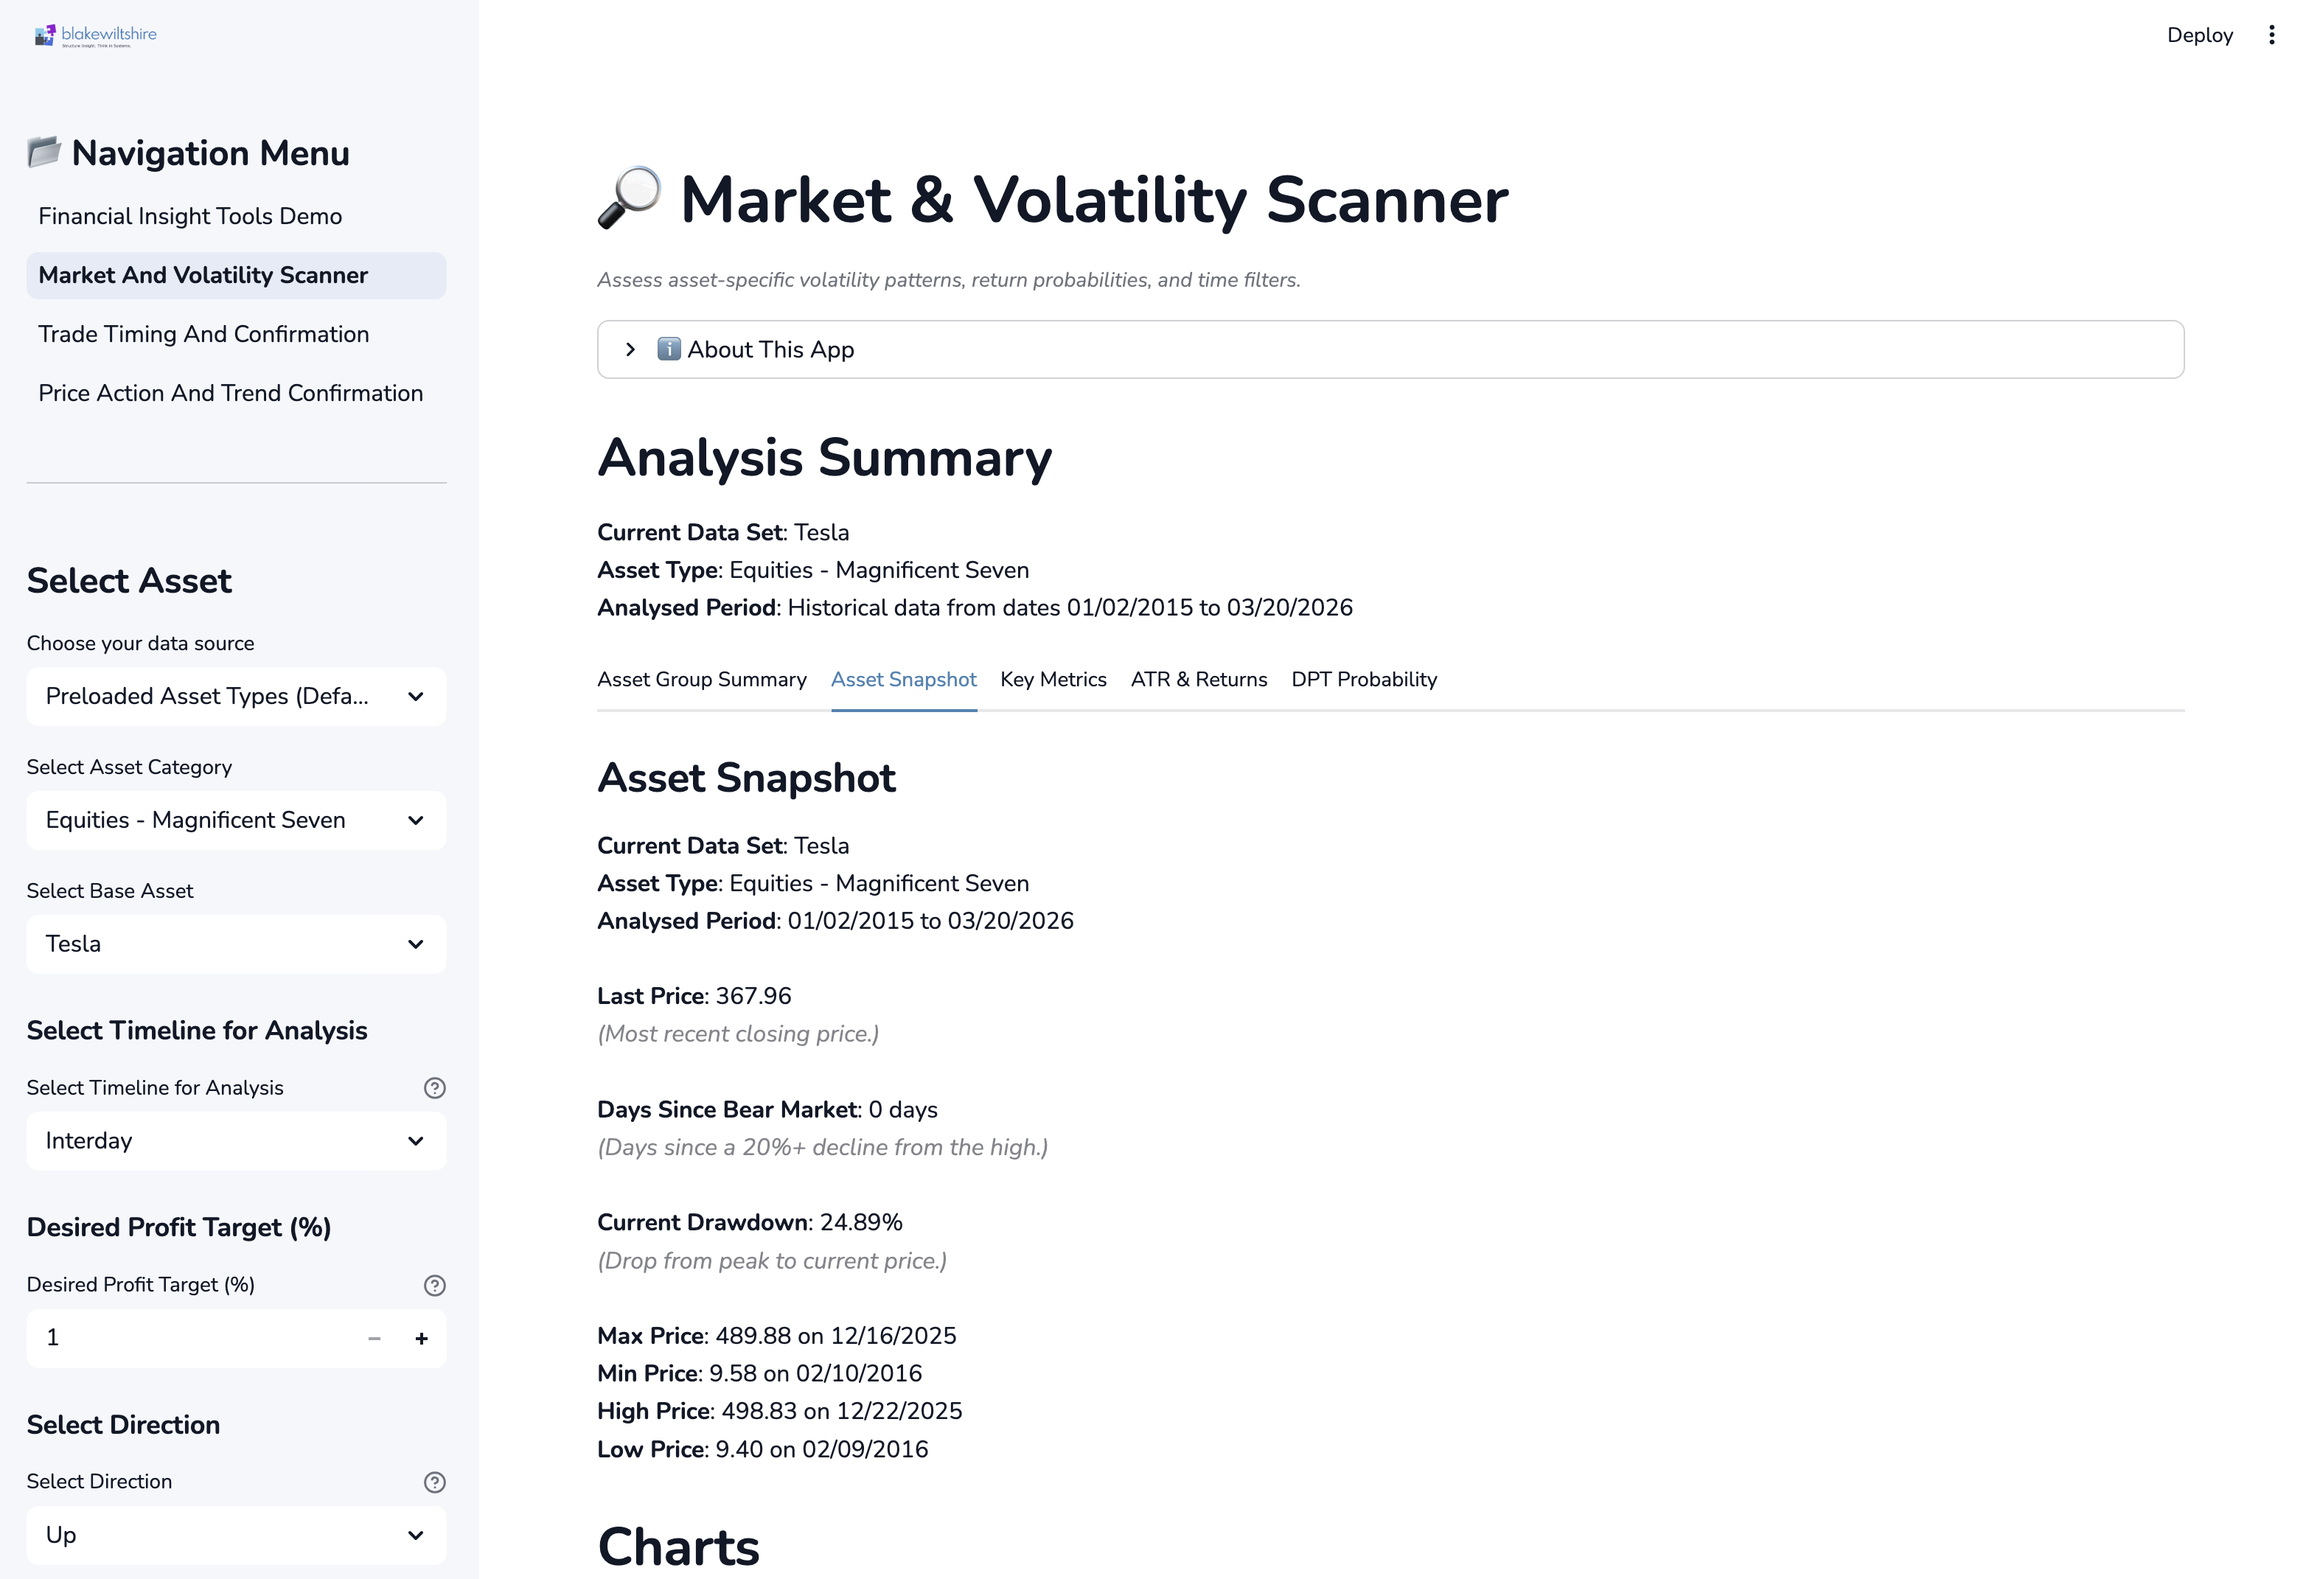
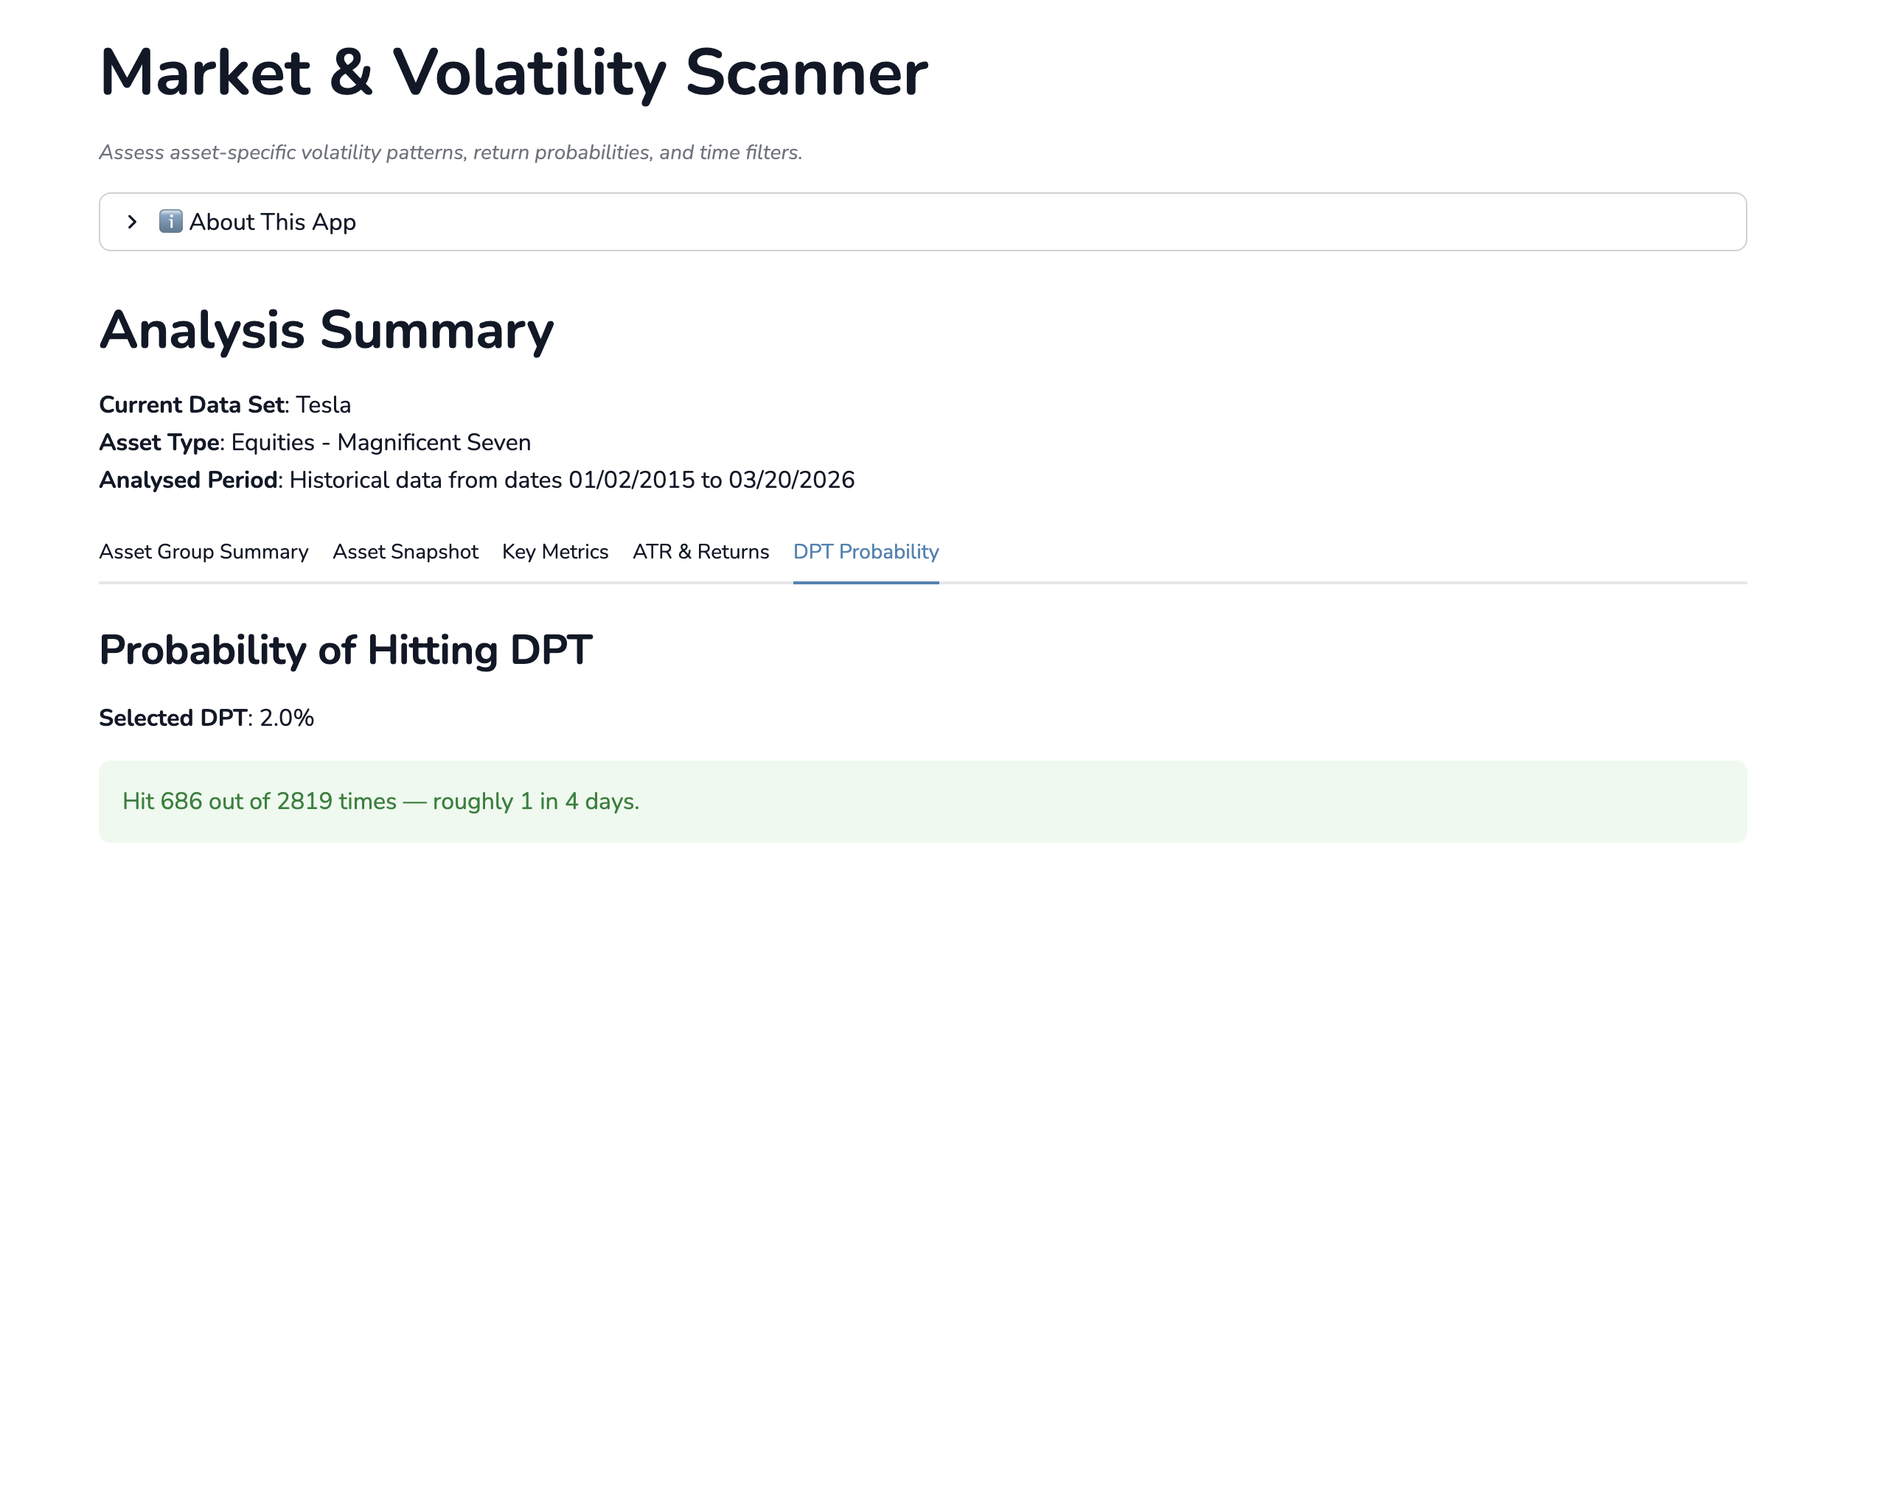
Latest updates

diff --git a/app.py b/app.py
@@ -85,20 +85,17 @@ def _render_sidebar(paths: Dict[str, str]) -> None:
 
     st.sidebar.page_link(
         "pages/01_market_and_volatility_scanner.py",
-        label="Market & Volatility Scanner",
-        icon="🔎",
+        label="Market & Volatility Scanner"
     )
 
     st.sidebar.page_link(
         "pages/02_trade_timing_and_confirmation.py",
-        label="Trade Timing & Confirmation",
-        icon="⏳",
+        label="Trade Timing & Confirmation"
     )
 
     st.sidebar.page_link(
         "pages/03_price_action_and_trend_confirmation.py",
-        label="Price Action & Trend Confirmation",
-        icon="📊",
+        label="Price Action & Trend Confirmation"
     )
 
     st.sidebar.divider()
@@ -141,13 +138,13 @@ def _render_capabilities_block() -> None:
         """
 The modules are designed to be used together as a structured sequence:
 
-- **🔎 Market & Volatility Scanner**
+- **Market & Volatility Scanner**
   Surface distribution structure, dispersion patterns, and volatility context.
 
-- **⏳ Trade Timing & Confirmation**
+- **Trade Timing & Confirmation**
   Assess timing alignment across timeframes and technical confirmation layers.
 
-- **📊 Price Action & Trend Confirmation**
+- **Price Action & Trend Confirmation**
   Reinforce directional logic through structured price action and momentum framing.
 
 Outputs are exploratory and interpretive.

diff --git a/pages/03_price_action_and_trend_confirmation.py b/pages/03_price_action_and_trend_confirmation.py
@@ -147,7 +147,7 @@ keys = {
 # Streamlit Page Setup
 # -------------------------------------------------------------------------------------------------
 st.set_page_config(page_title="Price Action & Trend Confirmation", layout="wide")
-st.title("📊 Price Action & Trend Confirmation")
+st.title("Price Action & Trend Confirmation")
 st.caption("*Analyse candlestick patterns, breakout zones, and directional flow.*")
 
 # -------------------------------------------------------------------------------------------------
@@ -608,8 +608,8 @@ def detect_support_resistance(df, predisposition):
 
 
 # **Tabs for Short, Medium, Full Data Views**
-tab1, tab2, tab3 = st.tabs(["📉 Short-Term (50 Days)",
-"📊 Medium-Term (200 Days)", "📈 Full Data (Filtered)"])
+tab1, tab2, tab3 = st.tabs(["Short-Term (50 Days)",
+"Medium-Term (200 Days)", "Full Data (Filtered)"])
 
 for tab, timeframe, data_slice, tab_key in [
     (tab1, "Short-Term (50 Days)", filtered_df.tail(50), "short"),

diff --git a/pages/02_trade_timing_and_confirmation.py b/pages/02_trade_timing_and_confirmation.py
@@ -128,7 +128,7 @@ from data_sources.financial_data.filtering_options import filtering_options_map
 # Streamlit Page Setup
 # -------------------------------------------------------------------------------------------------
 st.set_page_config(page_title="Trade Timing & Confirmation", layout="wide")
-st.title('⏳ Trade Timing & Confirmation')
+st.title('Trade Timing & Confirmation')
 st.caption("*Evaluate breakout potential, trend strength, and institutional sentiment.*")
 
 # -------------------------------------------------------------------------------------------------
@@ -557,9 +557,9 @@ def detect_support_resistance(df, predisposition):
 
 # **Tabs for Short, Medium, Full Data Views**
 tab1, tab2, tab3 = st.tabs([
-    "📉 Short-Term (50 Days)",
-    "📊 Medium-Term (200 Days)",
-    "📈 Full Data (Filtered)"
+    "Short-Term (50 Days)",
+    "Medium-Term (200 Days)",
+    "Full Data (Filtered)"
 ])
 
 # **Loop Through All Timeframes**

diff --git a/pages/01_market_and_volatility_scanner.py b/pages/01_market_and_volatility_scanner.py
@@ -201,7 +201,7 @@ from data_sources.financial_data.filtering_options import filtering_options_map
 # Streamlit Page Setup
 # -------------------------------------------------------------------------------------------------
 st.set_page_config(page_title="Market & Volatility Scanner", layout="wide")
-st.title('🔎 Market & Volatility Scanner')
+st.title('Market & Volatility Scanner')
 st.caption("*Assess asset-specific volatility patterns, return probabilities, and time filters.*")
 
 # -------------------------------------------------------------------------------------------------
